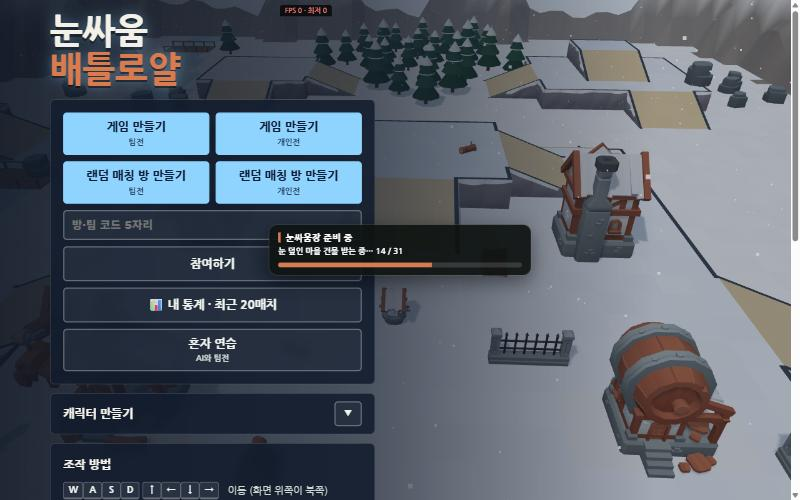
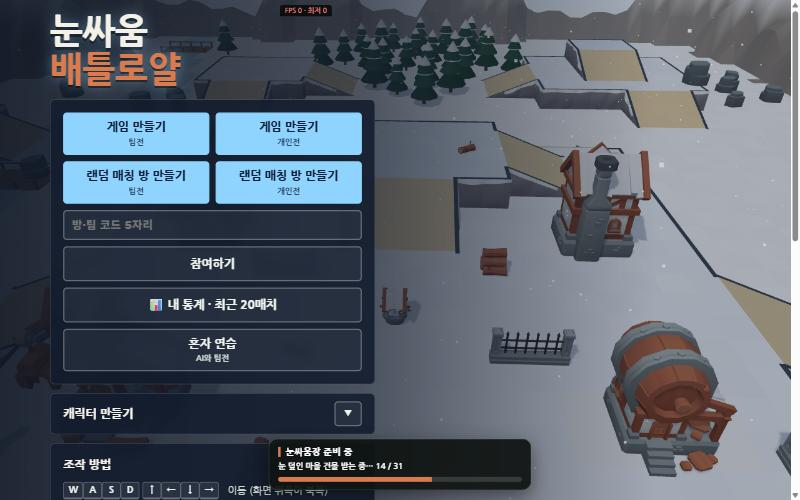
공용 로딩 게이지 자리를 모든 게임에서 화면 아래 가운데로 고정
- LoadGauge 의 place(가운데·아래) 옵션을 없애고 .lg-load 를 아래 가운데 하나로(theme.css)
- 24·25·30·31·32·37·41번의 place 지정 삭제, load-gauge.js·바뀐 스크립트 ?v= 올림
- 38·39·40·42번 예시 화면 다시 찍음, docs/common/load-gauge.md 자리 설명 고침

diff --git a/common/theme.css b/common/theme.css
@@ -296,13 +296,11 @@ button.mk-seat:disabled{cursor:default;}
 .room-code-tag.in-flow{position:static;transform:none;display:block;width:max-content;max-width:100%;margin:4px auto 0;padding:0;background:none;color:rgba(255,255,255,.72);}
 
 /* 공용 로딩 게이지(ts/common/load-gauge.ts 의 LoadGauge, 2026-11-18). 3D 에셋을 받는 모든 게임이 같은 판을 쓴다.
-   .lg-center 는 받는 동안 할 게 없는 게임(화면 가운데), .lg-bottom 은 받는 동안에도 시작 화면을 보는 게임(아래쪽).
+   자리는 모든 게임에서 화면 아래 가운데 하나로 고정한다(2026-11-18 선생님 요청 — 게임마다 가운데·아래로 오가면 헷갈려서).
    잠금 가드의 목록 버튼·게임 HUD 보다 위에 오도록 z-index 를 크게 둔다. */
-.lg-load{position:fixed;left:50%;z-index:5000;width:min(420px,calc(100vw - 32px));padding:12px 14px;border-radius:14px;
+.lg-load{position:fixed;left:50%;bottom:calc(16px + env(safe-area-inset-bottom));transform:translateX(-50%);z-index:5000;width:min(420px,calc(100vw - 32px));padding:12px 14px;border-radius:14px;
   background:rgba(14,20,17,.92);border:1px solid rgba(255,255,255,.14);box-shadow:0 10px 30px rgba(0,0,0,.45);color:#fff;
   font-family:var(--sg-font,"Nanum Gothic","Malgun Gothic",sans-serif);text-align:left;pointer-events:auto;}
-.lg-load.lg-center{top:50%;transform:translate(-50%,-50%);}
-.lg-load.lg-bottom{bottom:calc(16px + env(safe-area-inset-bottom));transform:translateX(-50%);}
 .lg-load[hidden],.lg-retry[hidden]{display:none !important;}
 .lg-title{font-size:15px;font-weight:800;border-left:4px solid #D97B4F;padding-left:8px;}
 .lg-text{margin-top:6px;font-size:13px;font-weight:700;line-height:1.4;}

diff --git a/37.space-war.html b/37.space-war.html
@@ -205,15 +205,15 @@
   </div>
 </div>
 
-<script charset="utf-8" src="common/load-gauge.js?v=20261118b"></script>
+<script charset="utf-8" src="common/load-gauge.js?v=20261118c"></script>
 <script charset="utf-8" src="common/character-kit.js?v=20261116b"></script>
-<script charset="utf-8" src="games/37.space-war/37.war-data.js?v=20261118a"></script>
-<script charset="utf-8" src="games/37.space-war/37.war-rules.js?v=20261118a"></script>
-<script charset="utf-8" src="games/37.space-war/37.war-bot.js?v=20261118a"></script>
-<script charset="utf-8" src="games/37.space-war/37.war-scenery.js?v=20261118a"></script>
-<script charset="utf-8" src="games/37.space-war/37.war-views.js?v=20261118a"></script>
-<script charset="utf-8" src="games/37.space-war/37.war-hud.js?v=20261118a"></script>
-<script charset="utf-8" src="games/37.space-war/37.space-war.js?v=20261118a"></script>
+<script charset="utf-8" src="games/37.space-war/37.war-data.js?v=20261118c"></script>
+<script charset="utf-8" src="games/37.space-war/37.war-rules.js?v=20261118c"></script>
+<script charset="utf-8" src="games/37.space-war/37.war-bot.js?v=20261118c"></script>
+<script charset="utf-8" src="games/37.space-war/37.war-scenery.js?v=20261118c"></script>
+<script charset="utf-8" src="games/37.space-war/37.war-views.js?v=20261118c"></script>
+<script charset="utf-8" src="games/37.space-war/37.war-hud.js?v=20261118c"></script>
+<script charset="utf-8" src="games/37.space-war/37.space-war.js?v=20261118c"></script>
 <script type="module">
 new WarBoot(async () => {
   const [THREE, loaders, SkeletonUtils] = await Promise.all([import("three"), import("three/addons/loaders/GLTFLoader.js"), import("three/addons/utils/SkeletonUtils.js")]);

diff --git a/25.fps-survival.html b/25.fps-survival.html
@@ -467,7 +467,7 @@
 <button type="button" id="btnGameLeave" hidden>나가기</button>
 
 <script type="importmap">{ "imports": { "three": "https://cdn.jsdelivr.net/npm/three@0.170.0/build/three.module.min.js", "three/addons/": "https://cdn.jsdelivr.net/npm/three@0.170.0/examples/jsm/" } }</script>
-<script charset="utf-8" src="common/load-gauge.js?v=20261118b"></script>
+<script charset="utf-8" src="common/load-gauge.js?v=20261118c"></script>
 <script charset="utf-8" src="common/character-kit.js?v=20261116b"></script>
 <script charset="utf-8" src="common/character-maker.js?v=20261116a"></script>
 <script charset="utf-8" src="common/room-drop-recovery.js?v=20261106b"></script>
@@ -1108,7 +1108,7 @@ const WEAPONS = { rifle: RIFLE, pistol: PISTOL };
 
 class SurvivalLoading {
   static PHASES = { files: { at: 0.05, span: 0.9, text: "병사·총·탄약 모델 받는 중…" } };
-  static gauge = new LoadGauge({ title: "전장 준비 중", phases: SurvivalLoading.PHASES, place: "bottom" });
+  static gauge = new LoadGauge({ title: "전장 준비 중", phases: SurvivalLoading.PHASES });
   static counter = new LoadCounter(() => SurvivalLoading.paint());
   static menuWatch = SurvivalLoading.watchMenu();
   static watchMenu() {

diff --git a/30.team-battle-arena.html b/30.team-battle-arena.html
@@ -316,7 +316,7 @@
   </div>
 </div>
 
-<script charset="utf-8" src="common/load-gauge.js?v=20261118b"></script>
+<script charset="utf-8" src="common/load-gauge.js?v=20261118c"></script>
 <script charset="utf-8" src="common/character-kit.js?v=20261116b"></script>
 <script charset="utf-8" src="common/character-maker.js?v=20261116a"></script>
 <script>new CharacterMakerDialog(undefined, false);</script>
@@ -13027,7 +13027,7 @@ SinglePassMaterials.enable(THREE);
   class KitLoadNote {
     static PHASES = { files: { at: 0.04, span: 0.92, text: "캐릭터·무기·아레나 장식 받는 중…" } };
     constructor(services) { this.services = services; this.files = null; this.slowTimer = 0; this.gauge = null; }
-    bind() { if (!this.gauge && !Environment.SILENT_RUN) this.gauge = new LoadGauge({ title: "아레나 준비 중", phases: KitLoadNote.PHASES, place: "bottom" }); }
+    bind() { if (!this.gauge && !Environment.SILENT_RUN) this.gauge = new LoadGauge({ title: "아레나 준비 중", phases: KitLoadNote.PHASES }); }
     track(files) { var note = this;
       this.files = files;
       clearTimeout(this.slowTimer); this.slowTimer = setTimeout(function () { note.render(); }, LoadGauge.SLOW_MS + 50);

diff --git a/41.baseball-duel.html b/41.baseball-duel.html
@@ -107,7 +107,7 @@
 <div id="bbDialogs" class="bb-ui"></div>
 <div id="versusCurtain" hidden></div>
 
-<script charset="utf-8" src="common/load-gauge.js?v=20261118b"></script>
+<script charset="utf-8" src="common/load-gauge.js?v=20261118c"></script>
 <script charset="utf-8" src="common/character-kit.js?v=20261116b"></script>
 <script charset="utf-8" src="common/match-kit.js?v=20261114g"></script>
 <script charset="utf-8" src="common/account-match-kit.js?v=20261114g"></script>
@@ -142,7 +142,7 @@
 <script charset="utf-8" src="games/41.baseball-duel/41.baseball-board.js?v=20261115b"></script>
 <script charset="utf-8" src="games/41.baseball-duel/41.baseball-net.js?v=20261115b"></script>
 <script charset="utf-8" src="games/41.baseball-duel/41.baseball-duel.js?v=20261118a"></script>
-<script charset="utf-8" src="games/41.baseball-duel/41.baseball-boot.js?v=20261118a"></script>
+<script charset="utf-8" src="games/41.baseball-duel/41.baseball-boot.js?v=20261118c"></script>
 <script type="module">
 new BbBoot(async () => {
   const [THREE, loaders, SkeletonUtils] = await Promise.all([import("three"), import("three/addons/loaders/GLTFLoader.js"), import("three/addons/utils/SkeletonUtils.js")]);

diff --git a/32.minigames.html b/32.minigames.html
@@ -340,7 +340,7 @@
   </div>
 </div>
 
-<script charset="utf-8" src="common/load-gauge.js?v=20261118b"></script>
+<script charset="utf-8" src="common/load-gauge.js?v=20261118c"></script>
 <script charset="utf-8" src="common/character-kit.js?v=20261116b"></script>
 <script charset="utf-8" src="common/fold-card.js"></script>
 <script charset="utf-8" src="games/32.minigames/last-tile/10-foundation.js"></script>
@@ -398,7 +398,7 @@
 <script charset="utf-8" src="games/32.minigames/78-mole-game.js"></script>
 <script charset="utf-8" src="games/32.minigames/60-views.js?v=20261021"></script>
 <script charset="utf-8" src="games/32.minigames/70-flow.js?v=20261106b"></script>
-<script charset="utf-8" src="games/32.minigames/80-app.js?v=20261118a"></script>
+<script charset="utf-8" src="games/32.minigames/80-app.js?v=20261118c"></script>
 <script type="module">
 new MiniGamesBoot(async () => {
   const [THREE, loaders, SkeletonUtils] = await Promise.all([import("three"), import("three/addons/loaders/GLTFLoader.js"), import("three/addons/utils/SkeletonUtils.js")]);

diff --git a/24.turbo-lap.html b/24.turbo-lap.html
@@ -546,7 +546,7 @@
 <div id="rankBox" hidden><div class="hud-box" id="rkTime">0:00.00</div><div id="rkList"></div></div>
 <div id="viewBtns" hidden></div>
 
-<script charset="utf-8" src="common/load-gauge.js?v=20261118b"></script>
+<script charset="utf-8" src="common/load-gauge.js?v=20261118c"></script>
 <script charset="utf-8" src="common/character-kit.js?v=20261116b"></script>
 <script charset="utf-8" src="common/character-maker.js?v=20261116a"></script>
 <script charset="utf-8" src="common/room-drop-recovery.js?v=20261106b"></script>
@@ -879,7 +879,7 @@ class TurboLapLoading {
     car: { at: 0.84, text: "자동차 모델 받는 중…" },
     course: { at: 0.92, text: "코스 준비 중…" }
   };
-  static gauge = new LoadGauge({ title: "서킷 준비 중", phases: TurboLapLoading.PHASES, place: "bottom" });
+  static gauge = new LoadGauge({ title: "서킷 준비 중", phases: TurboLapLoading.PHASES });
   static onMenu() { return $("overlay").style.display !== "none"; }
   static paint(myModel, warm) {
     const gauge = TurboLapLoading.gauge;

diff --git a/ts/common/load-gauge.ts b/ts/common/load-gauge.ts
@@ -17,13 +17,9 @@ interface LoadGaugeCount {
   readonly total: number;
 }
 
-type LoadGaugePlace = "center" | "bottom";
-
 interface LoadGaugeOptions<K extends string> {
   readonly title: string;
   readonly phases: Readonly<Record<K, LoadGaugePhase>>;
-  // center: 받는 동안 할 게 없는 게임(화면 가운데). bottom: 받는 동안에도 시작 화면을 볼 수 있는 게임(아래쪽에 작게).
-  readonly place?: LoadGaugePlace;
 }
 
 class LoadGauge<K extends string = string> {
@@ -44,7 +40,7 @@ class LoadGauge<K extends string = string> {
   private settled = false;
 
   constructor(private readonly options: LoadGaugeOptions<K>) {
-    this.root = LoadGauge.box("lg-load lg-" + (options.place || "center"), document.body);
+    this.root = LoadGauge.box("lg-load", document.body);
     this.root.hidden = true;
     this.titleLine = LoadGauge.box("lg-title", this.root, options.title);
     this.text = LoadGauge.box("lg-text", this.root);

diff --git a/31.zombie-outbreak.html b/31.zombie-outbreak.html
@@ -434,7 +434,7 @@
   </div>
 </section>
 
-<script charset="utf-8" src="common/load-gauge.js?v=20261118b"></script>
+<script charset="utf-8" src="common/load-gauge.js?v=20261118c"></script>
 <script charset="utf-8" src="common/character-kit.js?v=20261116b"></script>
 <script charset="utf-8" src="common/character-maker.js?v=20261116a"></script>
 <div id="versusCurtain" class="zv-curtain" hidden>
@@ -492,7 +492,7 @@ class ZombieLoading {
     library: { at: 0.08, text: "그래픽 라이브러리 받는 중…" },
     models: { at: 0.3, span: 0.65, text: "학생·좀비 모델 받는 중…" }
   };
-  static gauge = new LoadGauge({ title: "3D 학교 준비 중", phases: ZombieLoading.PHASES, place: "bottom" });
+  static gauge = new LoadGauge({ title: "3D 학교 준비 중", phases: ZombieLoading.PHASES });
   static counter = new LoadCounter((counter) => ZombieLoading.gauge.count("models", counter));
 }
 ZombieLoading.gauge.phase("library");

diff --git a/common/load-gauge.js b/common/load-gauge.js
@@ -12,7 +12,7 @@ class LoadGauge {
         this.startedAt = performance.now();
         this.retryAction = () => location.reload();
         this.settled = false;
-        this.root = LoadGauge.box("lg-load lg-" + (options.place || "center"), document.body);
+        this.root = LoadGauge.box("lg-load", document.body);
         this.root.hidden = true;
         this.titleLine = LoadGauge.box("lg-title", this.root, options.title);
         this.text = LoadGauge.box("lg-text", this.root);

diff --git a/39.water-balloon.html b/39.water-balloon.html
@@ -280,7 +280,7 @@
 </div>
 <div id="versusCurtain" class="wbv-curtain" hidden></div>
 <div id="netMeter"></div>
-<script charset="utf-8" src="common/load-gauge.js?v=20261118b"></script>
+<script charset="utf-8" src="common/load-gauge.js?v=20261118c"></script>
 <script charset="utf-8" src="common/character-kit.js?v=20261116b"></script>
 <script charset="utf-8" src="common/fold-card.js"></script>
 <script charset="utf-8" src="common/match-kit.js?v=20261103a"></script>

diff --git a/40.dongma-forest.html b/40.dongma-forest.html
@@ -255,7 +255,7 @@
     </div>
   </div>
 </div>
-<script charset="utf-8" src="common/load-gauge.js?v=20261118b"></script>
+<script charset="utf-8" src="common/load-gauge.js?v=20261118c"></script>
 <script charset="utf-8" src="common/character-kit.js?v=20261116b"></script>
 <script charset="utf-8" src="common/fold-card.js"></script>
 <script charset="utf-8" src="games/40.dongma-forest/40.forest-furniture.js?v=12"></script>
